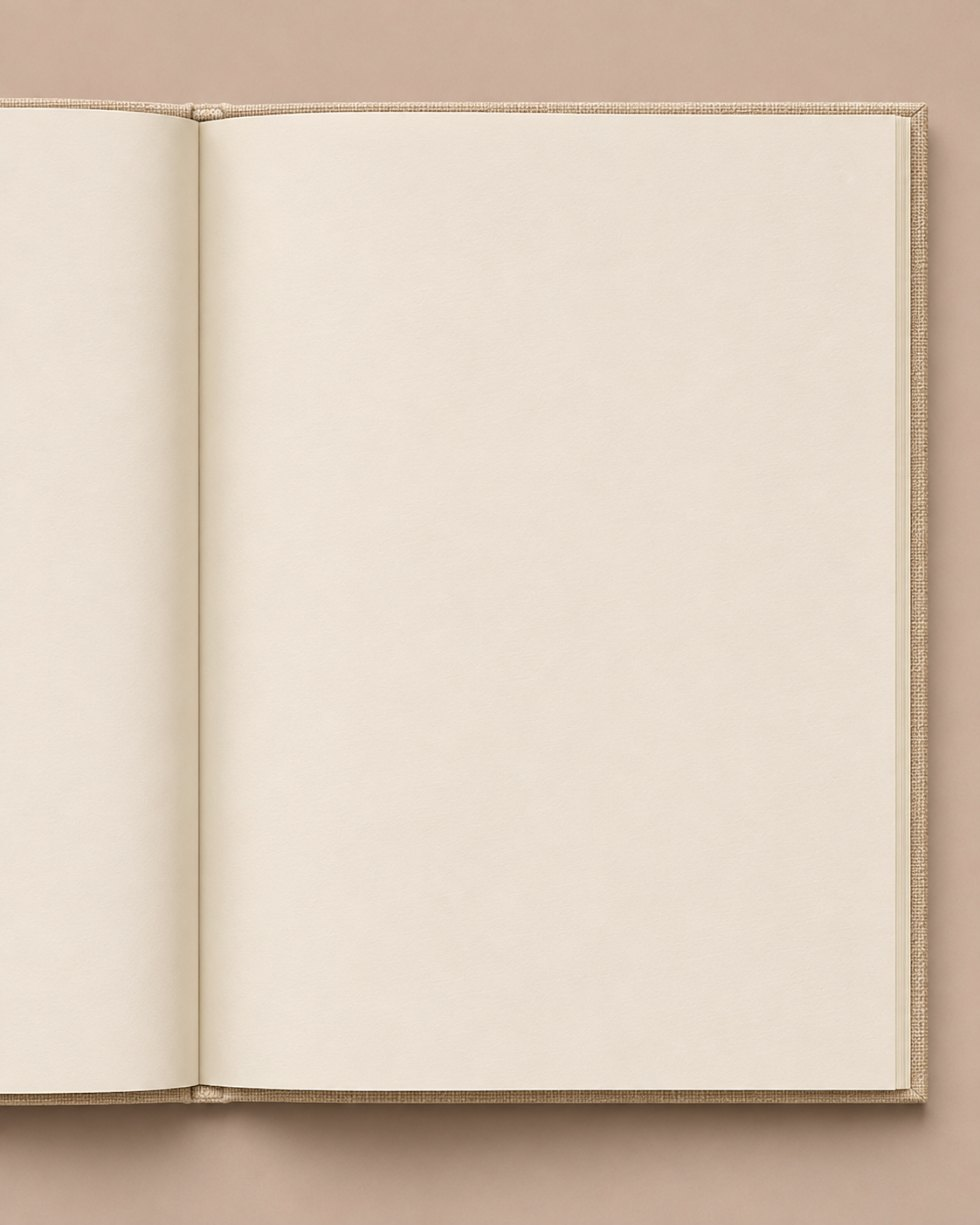
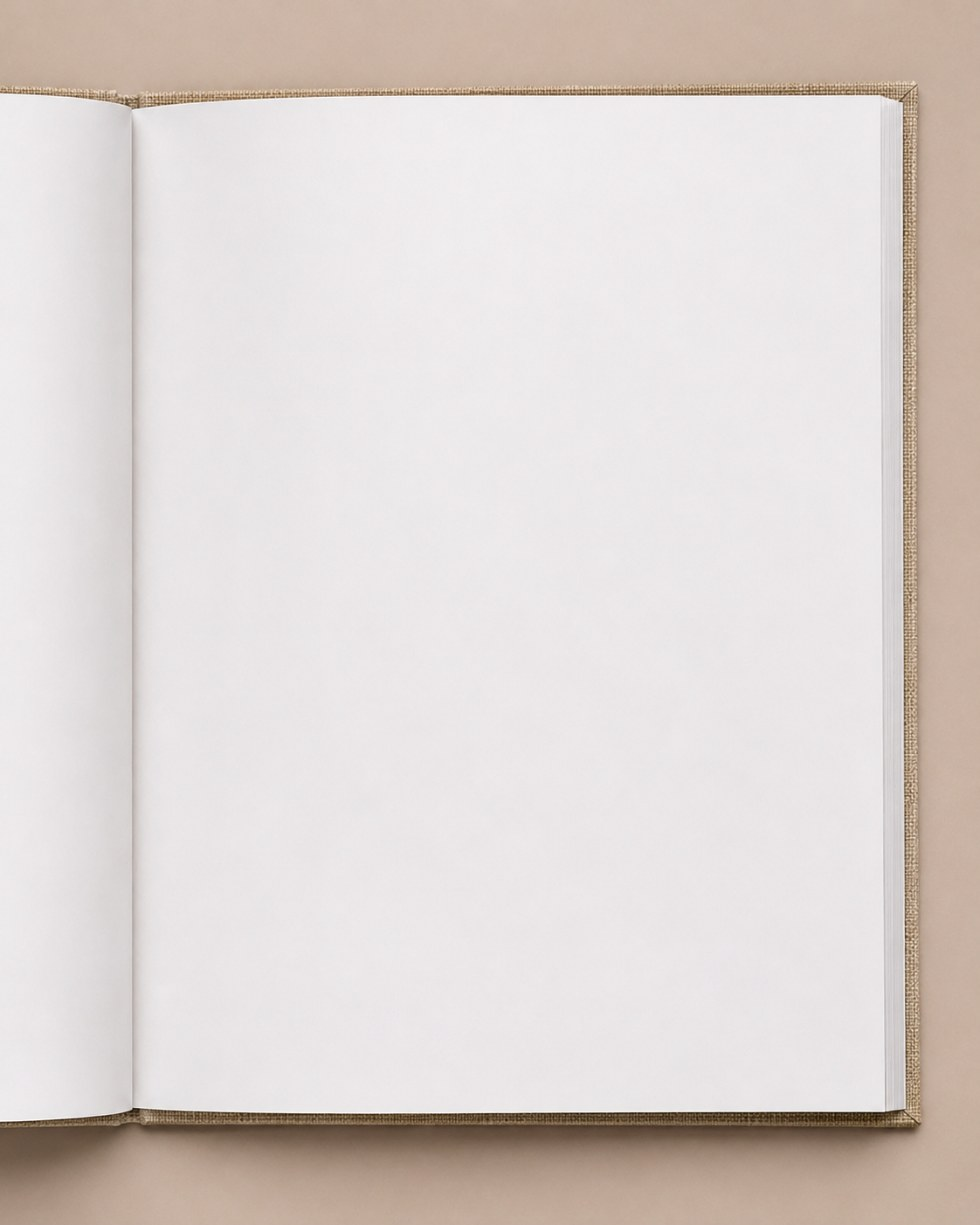
Loomina écrit : page blanche d'un vrai livre, texte et folio plus petits
Claude-Session: https://claude.ai/code/session_01LhxbKnZEQbimXwvwZPZ3VY

diff --git a/components/home/VoiceToBook.module.css b/components/home/VoiceToBook.module.css
@@ -103,7 +103,7 @@
   object-fit: cover;
 }
 .open {
-  transform-origin: 58% 46%;
+  transform-origin: 52% 46%;
   transition: transform 0s 0.9s;
 }
 .stage[data-act="2"] .open {
@@ -135,17 +135,17 @@
 /* Le texte qui s'écrit sur la page de droite, dans la mise en page du livre imprimé */
 .ink {
   position: absolute;
-  left: 26%;
-  right: 13.5%;
-  top: 20%;
-  bottom: 14.5%;
+  left: 24%;
+  right: 20%;
+  top: 23%;
+  bottom: 14%;
   display: flex;
   flex-direction: column;
-  color: #2b2622;
+  color: #1d1b19;
   mix-blend-mode: multiply;
   font-family: "Times New Roman", Times, "Liberation Serif", "Nimbus Roman", serif;
-  font-size: 3.3cqw;
-  line-height: 1.3;
+  font-size: 2.6cqw;
+  line-height: 1.27;
 }
 .ink p {
   margin: 0;
@@ -154,33 +154,34 @@
   text-align: center;
 }
 .title {
-  margin-top: 1.6cqw !important;
+  margin-top: 1.3cqw !important;
   text-align: center;
   font-style: italic;
   font-size: 1.06em;
 }
 .par {
-  margin-top: 2.6cqw !important;
+  margin-top: 2.1cqw !important;
   text-align: justify;
   hyphens: auto;
 }
 .title + .par {
-  margin-top: 5.5cqw !important;
+  margin-top: 5.2cqw !important;
 }
 .sub {
-  margin-top: 3.4cqw !important;
+  margin-top: 2.9cqw !important;
   font-weight: 700;
 }
 .pageNumber {
   margin-top: auto !important;
   text-align: right;
+  font-size: 0.86em;
 }
 .w {
   opacity: 0;
 }
 .stage[data-act="2"] .w {
   animation: write 0.5s ease-out forwards;
-  animation-delay: calc(0.9s + var(--w) * 62ms);
+  animation-delay: calc(0.9s + var(--w) * 46ms);
 }
 .stage[data-act="3"] .w {
   opacity: 1;

diff --git a/components/home/VoiceToBook.tsx b/components/home/VoiceToBook.tsx
@@ -18,6 +18,10 @@ const PAGE: { kind: "par" | "sub"; text: string }[] = [
     kind: "par",
     text: "Le samedi, c’était le jour du pain. J’avais le droit de façonner une petite boule, la mienne, qu’elle marquait d’une croix du bout de son couteau pour qu’on la reconnaisse.",
   },
+  {
+    kind: "par",
+    text: "Le tilleul et le pain chaud se mêlaient alors dans toute la maison. Aujourd’hui encore, il me suffit de passer devant une boulangerie pour retrouver cette cour.",
+  },
 ];
 
 const STEPS = [
